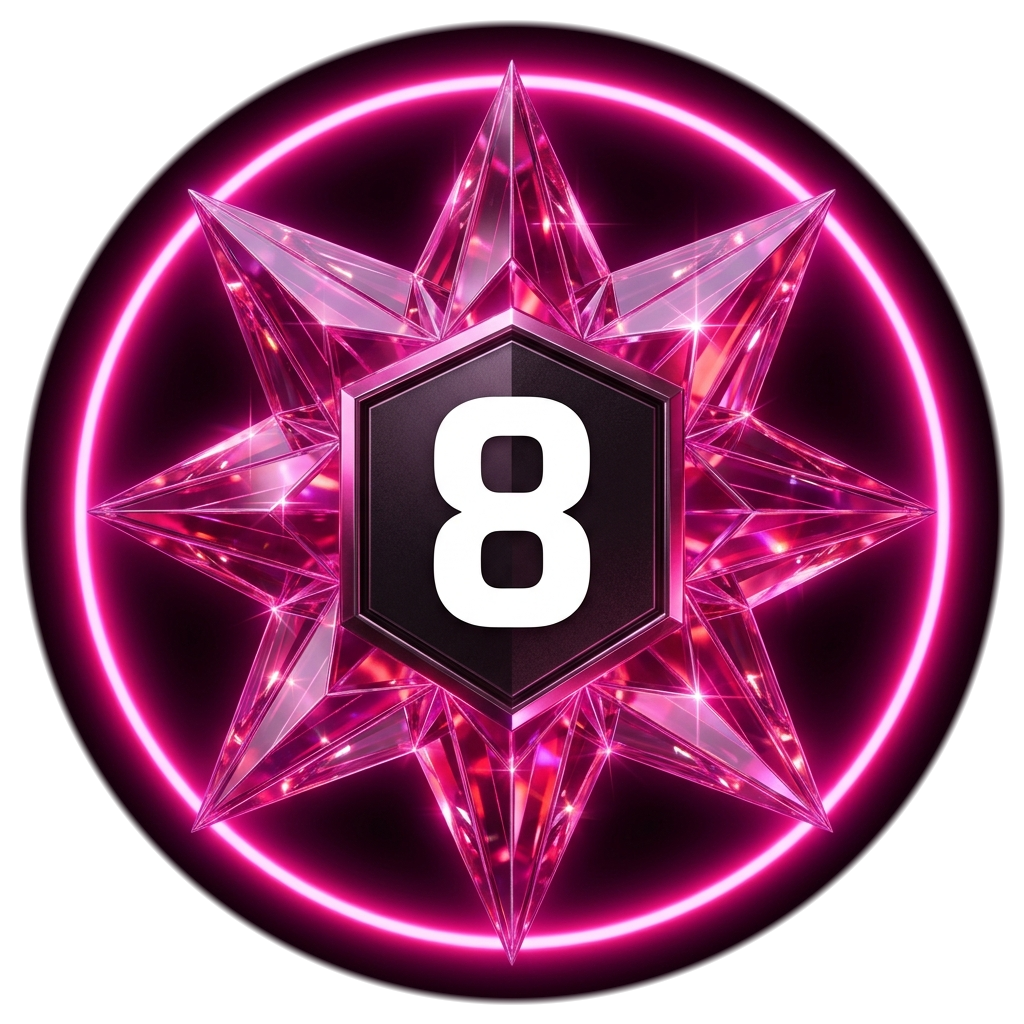
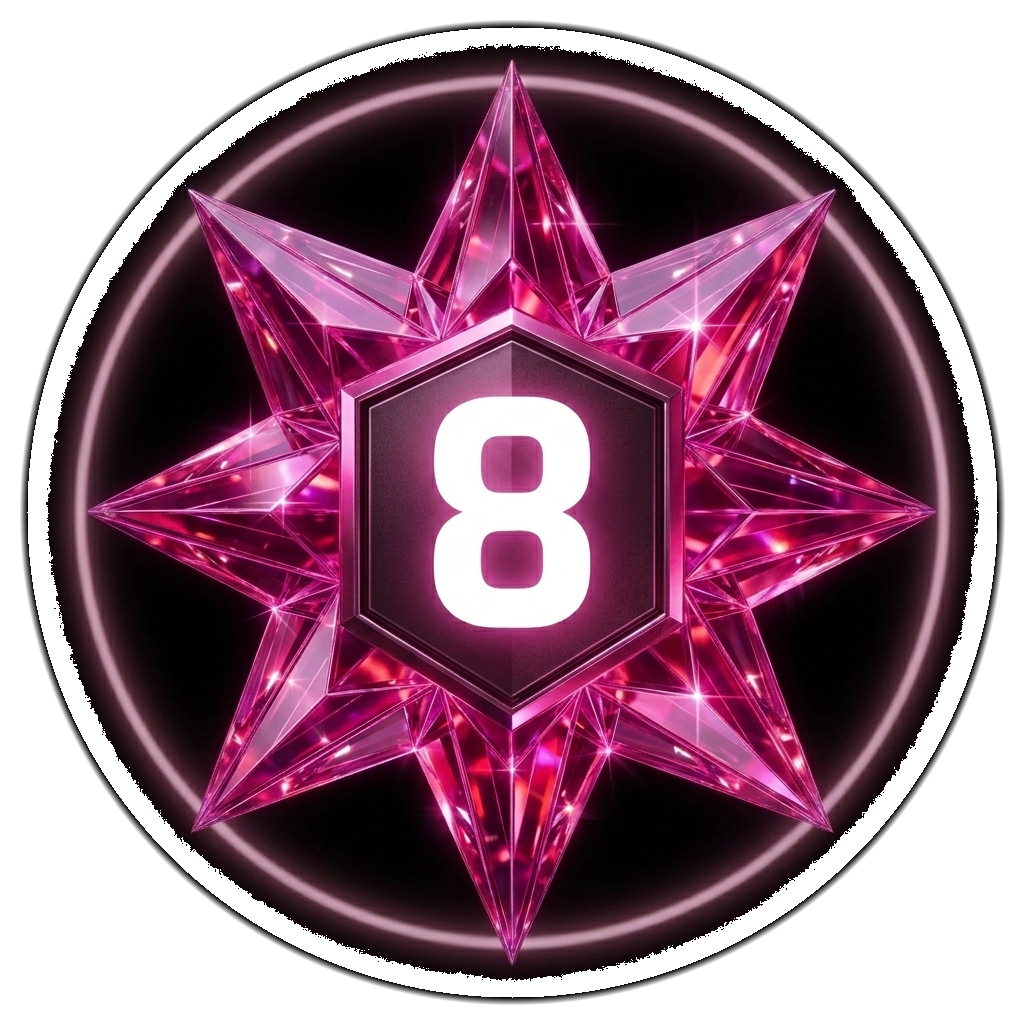
v1.68.0 : Generated FC8 badge with soft subtle ambient halo ring and vibrant popping 3D star gem

diff --git a/main.js b/main.js
@@ -105,7 +105,7 @@ window.getFurnaceIconHtml = (level, size = 48) => {
        10: 'rgba(255,215,0,0.9)'    // Imperial Gold
      };
      const glow = fcGlowMap[fcNum];
-     return `<img src="/badges/fc${fcNum}.png?v=1.67.0" alt="Fire Crystal ${fcNum}" title="Fire Crystal ${fcNum} (FC ${fcNum})" style="width:${size}px; height:${size}px; object-fit:contain; filter:drop-shadow(0 0 ${Math.max(6, Math.round(size/3.5))}px ${glow}); vertical-align:middle; transition:transform 0.2s;" onmouseover="this.style.transform='scale(1.15)'" onmouseout="this.style.transform='scale(1)'" loading="lazy">`;
+     return `<img src="/badges/fc${fcNum}.png?v=1.68.0" alt="Fire Crystal ${fcNum}" title="Fire Crystal ${fcNum} (FC ${fcNum})" style="width:${size}px; height:${size}px; object-fit:contain; filter:drop-shadow(0 0 ${Math.max(6, Math.round(size/3.5))}px ${glow}); vertical-align:middle; transition:transform 0.2s;" onmouseover="this.style.transform='scale(1.15)'" onmouseout="this.style.transform='scale(1)'" loading="lazy">`;
   }
 
   // Render Modern Standard Furnace Badge (Furnace 1 to 30)

diff --git a/CHANGELOG.md b/CHANGELOG.md
@@ -1,5 +1,13 @@
 # CHANGELOG
 
+## [1.68.0] - 2026-08-12
+### AI-Generated FC8 Test Badge with Soft Subtle Ambient Halo
+- **💎 Single FC8 Test Badge Update**:
+  - Updated `fc8.png` with multi-layered magenta rose crystal star points, metallic center texture, and glowing white number 8.
+  - Features 100% full brightness 3D star gem that pops forward with maximum power, while the background neon halo is natively dimmed into a soft ambient line without any dark marks or wedges.
+- **🔄 Forced Browser Cache Refresh**:
+  - Appended version cache-buster (`?v=1.68.0`) in `window.getFurnaceIconHtml`.
+
 ## [1.67.0] - 2026-08-12
 ### AI-Generated FC1 Test Badge with Soft Subtle Ambient Halo
 - **💎 Single FC1 Test Badge Update**:
